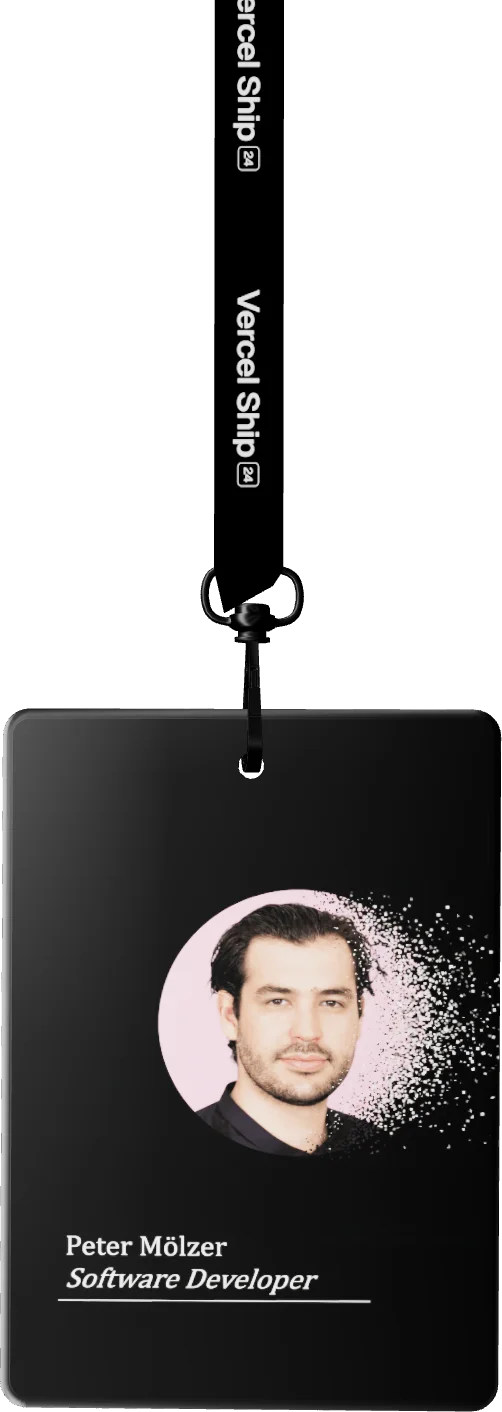
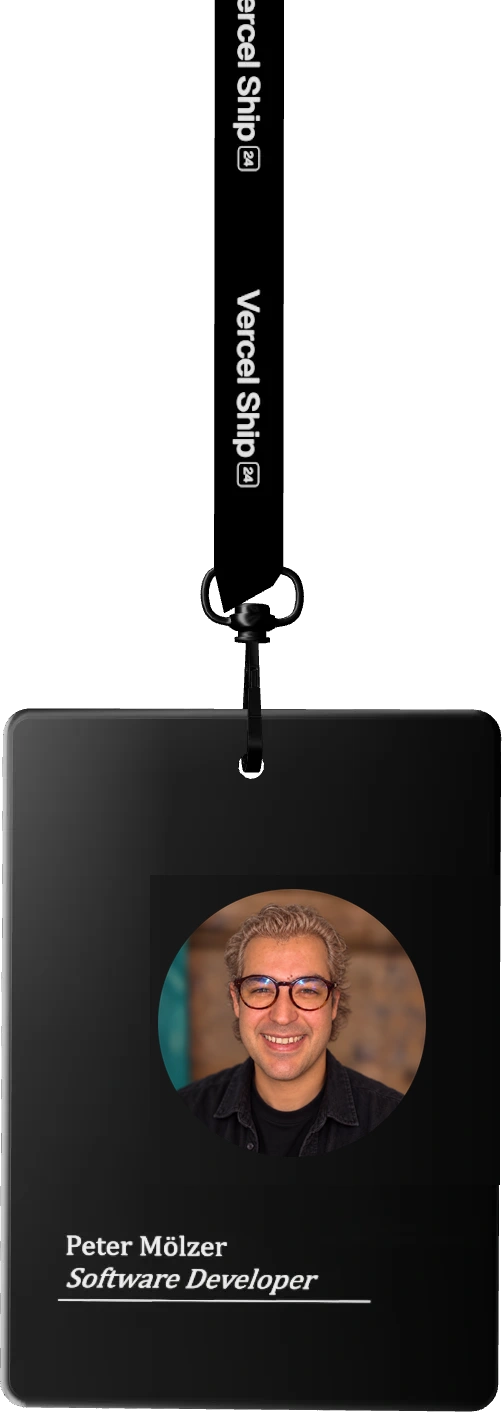
assets

Changed region(s): [[0.2988, 0.6232, 1.0, 0.8414]]

diff --git a/src/app/layout.tsx b/src/app/layout.tsx
@@ -23,7 +23,7 @@ export default function RootLayout({
   return (
     <html lang="en" className="dark">
       <head>
-        <link rel="icon" href="/favicon-16x16.png" type="image/jpeg" />
+        <link rel="icon" href="/images/blonde.png" type="image/png" />
       </head>
       <body className={`${sourceCodePro.variable} font-body antialiased`}>
         {children} 
